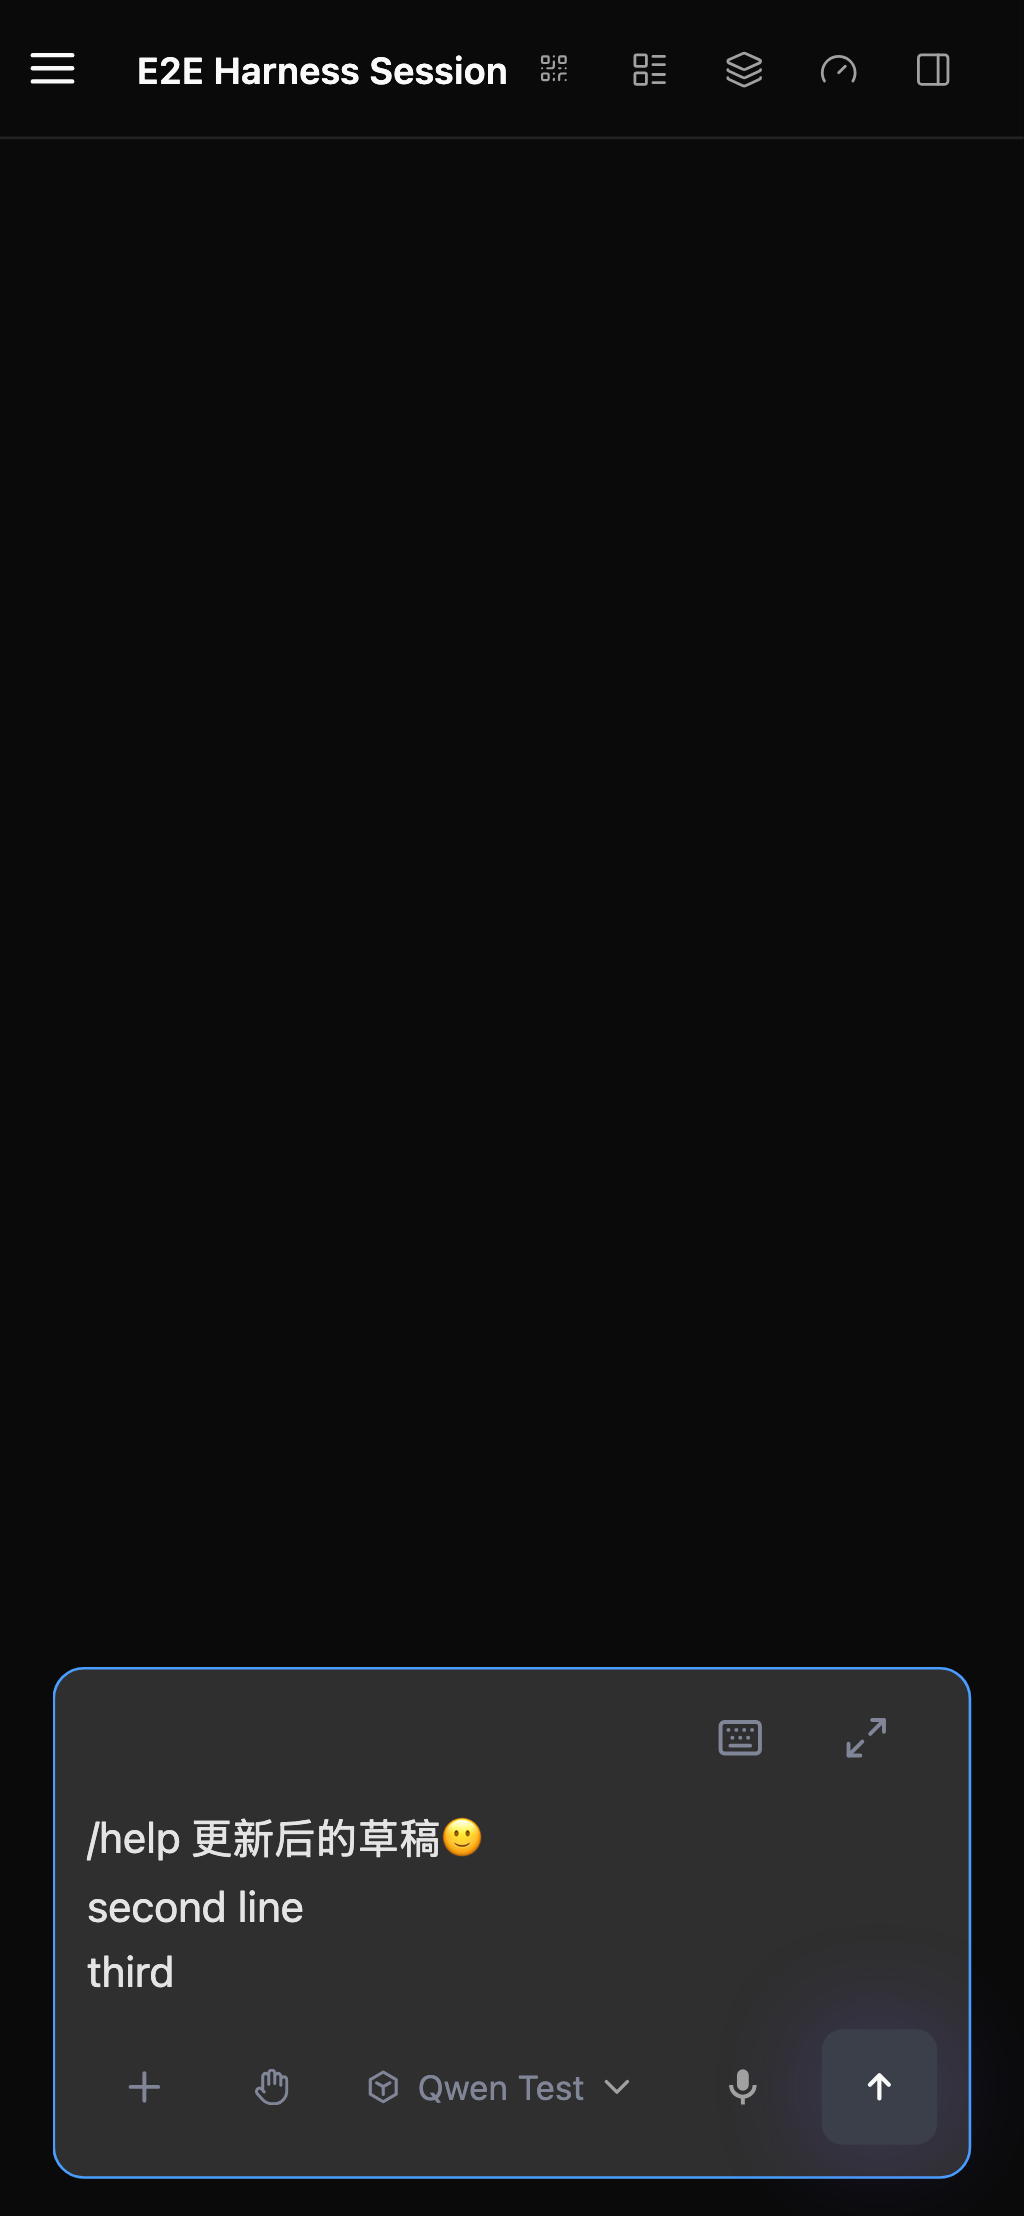
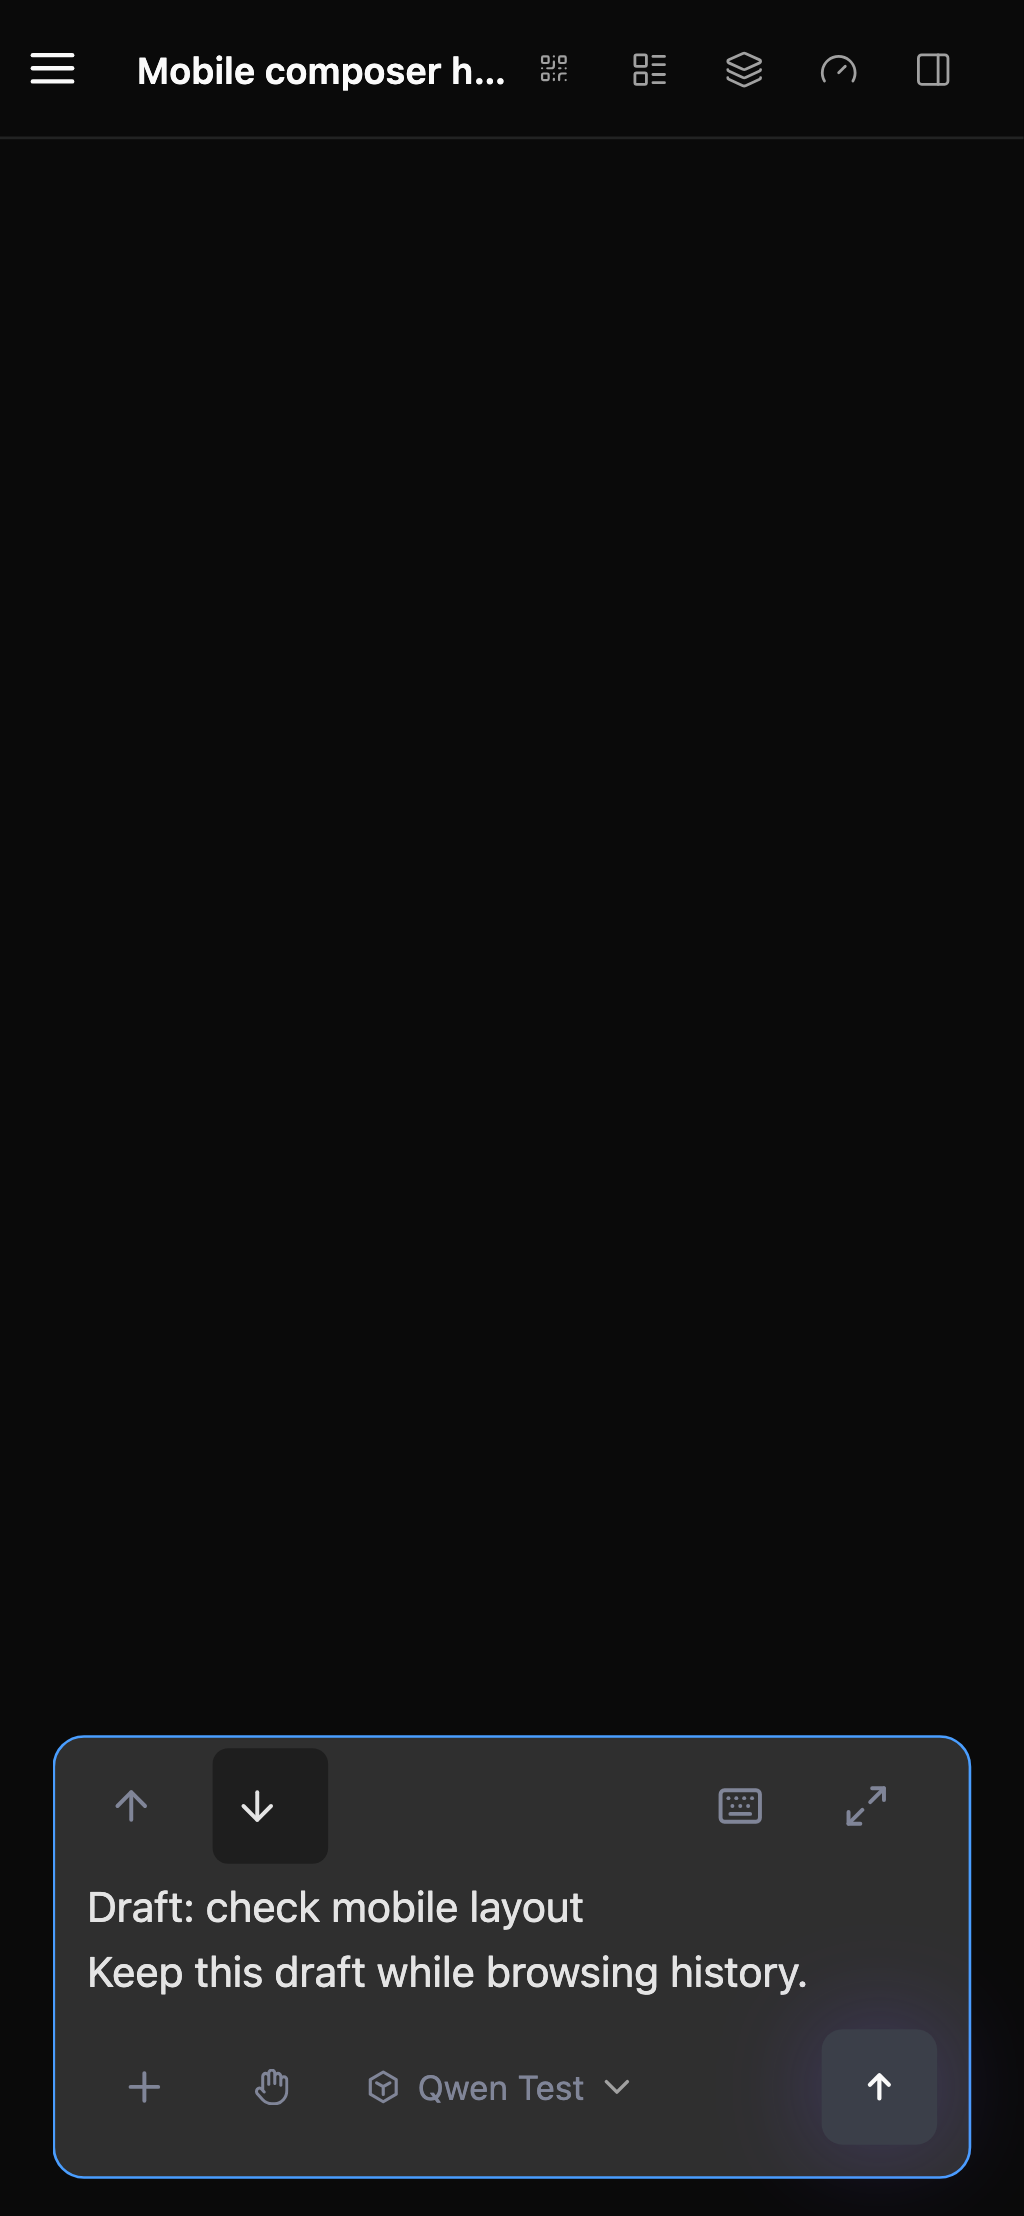
docs: show restored mobile history navigation in PR 12252

Changed region(s): [[0.0312, 0.7473, 0.9688, 0.903], [0.1562, 0.0, 0.4688, 0.0623], [0.7188, 0.9341, 0.75, 0.9653]]

diff --git a/README.md b/README.md
@@ -8,3 +8,14 @@ Screenshots for https://github.com/QwenLM/qwen-code/pull/12252.
 - after-expanded-editor.png: expanded draft editor with keyboard dismissal and Done.
 
 Captured during implementation verification on 2026-09-19 using Chromium touch emulation at a 390 x 844 CSS-pixel viewport. PNG files retain the original device-scale resolution. The before image uses the real global CLI; after images use deterministic mock-daemon UI verification with sample draft text. These are original, unedited screenshots. This branch is an asset host and is not intended to merge into main.
+
+## Restored mobile history navigation
+
+Follow-up screenshots for PR #12252, implementation commit `462b9836f2d343eb4eca390c4fb0a4ee77166054`. Captured from built Web Shell assets using deterministic mock daemon routes and Chromium touch emulation. These are original browser screenshots with sample input, without pixel editing or compositing.
+
+- `pr-12252/after-composer.png`: updated full 390×844 viewport with history arrows and the restored draft.
+- `pr-12252/history-previous-390.png`: native composer-element capture after recalling the newest saved input at 390px.
+- `pr-12252/history-draft-390.png`: native composer-element capture after returning to the multiline draft at 390px.
+- `pr-12252/history-previous-240.png`: native composer-element capture at 240px, showing the editing controls wrapping without overflow.
+
+The earlier before, Add drawer, and expanded-editor screenshots are retained.
